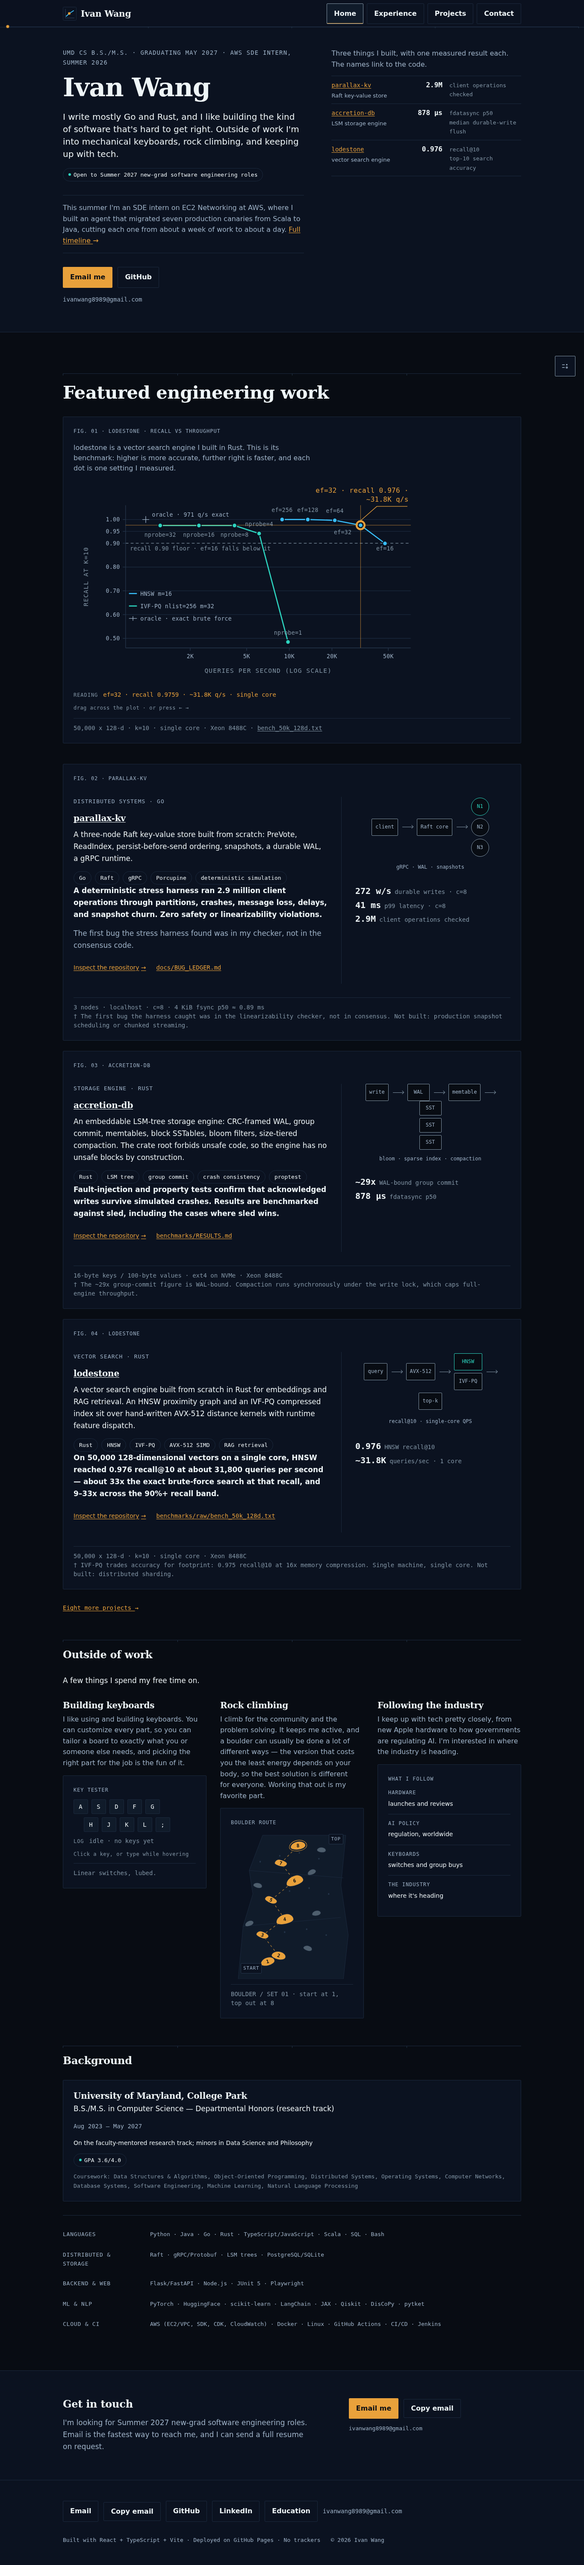
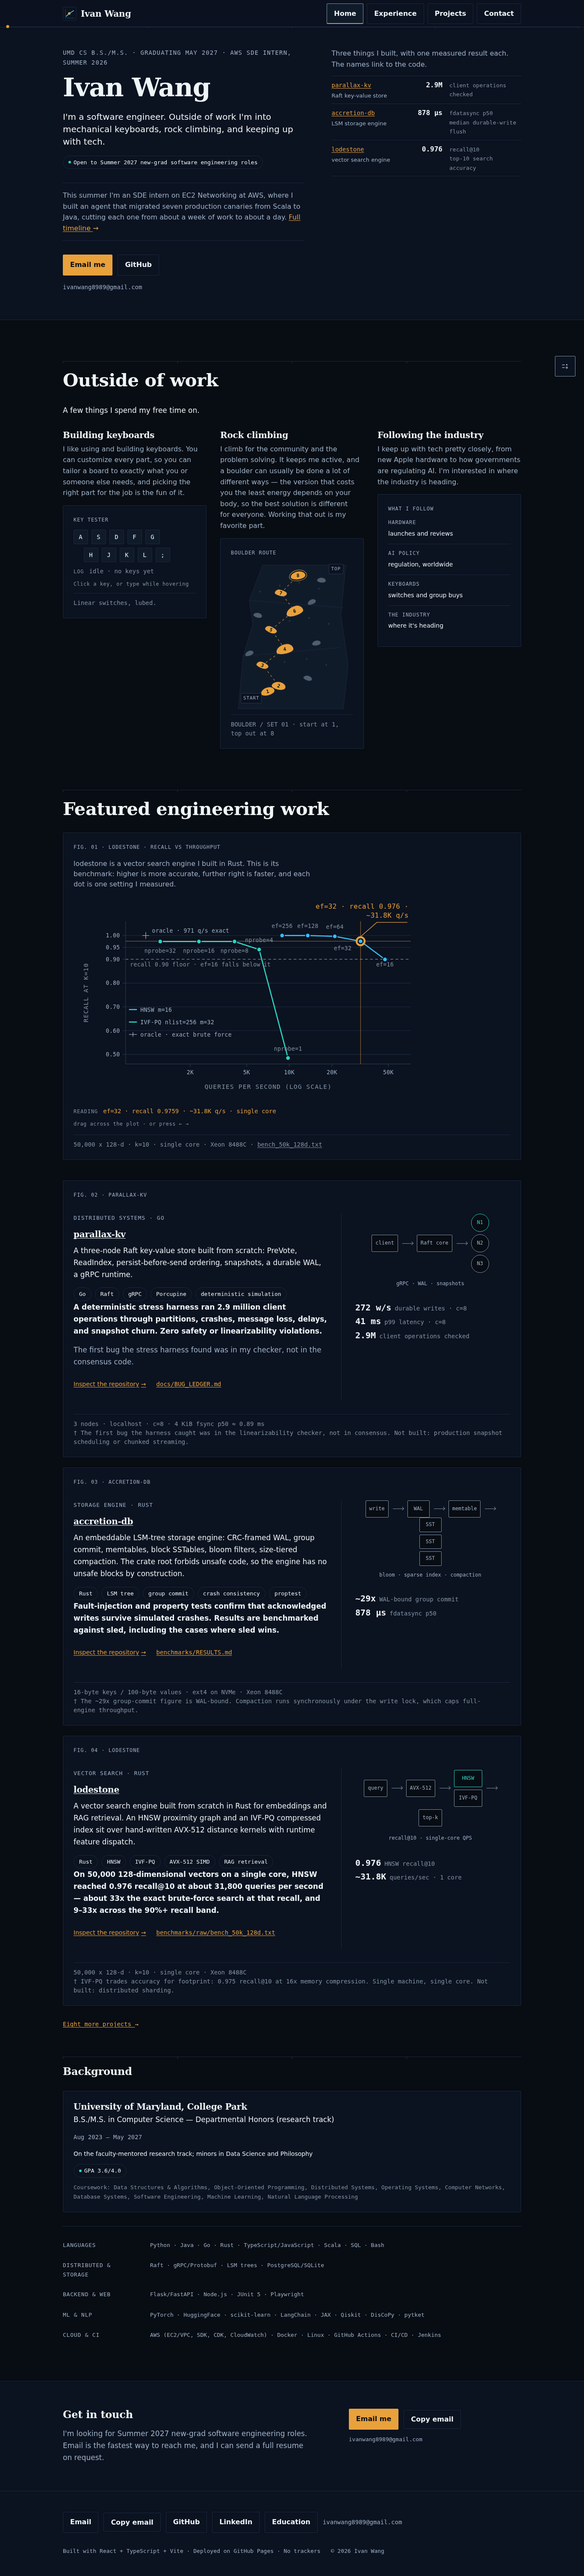
Home: hobbies lead, no stack pigeonhole in the bio or meta

diff --git a/src/pages/home/main.tsx b/src/pages/home/main.tsx
@@ -79,29 +79,13 @@ function Home() {
           </div>
         </section>
 
-        <Section id="systems" title="Featured engineering work" rank={1}>
-          {/* The section opens with ONE figure at the full container measure —
-              the rail that used to sit beside it now lives in the hero, above
-              the fold, where the numbers are the first screen's evidence. */}
-          <div className="systems-sweep">
-            <Sweep />
-          </div>
-          <div className="system-list">
-            {featuredSystems.map((project, i) => (
-              <SystemFeature key={project.id} project={project} index={i} />
-            ))}
-          </div>
-          {/* An exit that points at what the reader has NOT seen. */}
-          <p className="section-exit">
-            <a className="mono" href="/projects/#selected">
-              Eight more projects <span className="arrow" aria-hidden="true">→</span>
-            </a>
-          </p>
-        </Section>
-
-        {/* The hobbies, each drawn as its own small figure: the key tester you
-            can type on, the boulder route, the feed. */}
-        <Section id="off-hours" title={hobbies.title} rank={2}>
+        {/* Personality first, by owner call (2026-07-31): the hobbies lead the
+            page, each drawn as its own small figure — the key tester you can
+            type on, the boulder route, the feed. The engineering evidence
+            follows directly, and the hero's readout rail already puts three
+            measured results above the fold, so a screener never has to scroll
+            past the personality to find proof. */}
+        <Section id="off-hours" title={hobbies.title} rank={1}>
           <p className="hobby-intro">{hobbies.intro}</p>
           <div className="hobby-grid">
             <div className="hobby-cell">
@@ -132,6 +116,26 @@ function Home() {
               </figure>
             </div>
           </div>
+        </Section>
+
+        <Section id="systems" title="Featured engineering work" rank={1}>
+          {/* The section opens with ONE figure at the full container measure —
+              the rail that used to sit beside it now lives in the hero, above
+              the fold, where the numbers are the first screen's evidence. */}
+          <div className="systems-sweep">
+            <Sweep />
+          </div>
+          <div className="system-list">
+            {featuredSystems.map((project, i) => (
+              <SystemFeature key={project.id} project={project} index={i} />
+            ))}
+          </div>
+          {/* An exit that points at what the reader has NOT seen. */}
+          <p className="section-exit">
+            <a className="mono" href="/projects/#selected">
+              Eight more projects <span className="arrow" aria-hidden="true">→</span>
+            </a>
+          </p>
         </Section>
 
         {/* Education and skills are one thing — where he studied and what he

diff --git a/index.html b/index.html
@@ -6,7 +6,7 @@
     <title>Ivan Wang — Software Engineer · UMD CS · AWS SDE Intern</title>
     <meta
       name="description"
-      content="Software engineer building across the stack — backend, systems, and ML/NLP. CS B.S./M.S. (Departmental Honors) at the University of Maryland, SDE intern at AWS for Summer 2026, seeking new-grad SWE roles for Summer 2027."
+      content="Software engineer. CS B.S./M.S. (Departmental Honors) at the University of Maryland, SDE intern at AWS for Summer 2026, seeking new-grad SWE roles for Summer 2027."
     />
     <meta name="color-scheme" content="dark" />
     <meta name="theme-color" content="#0B1220" />
@@ -25,7 +25,7 @@
     />
     <meta
       property="og:description"
-      content="Software engineer building across the stack — backend, systems, and ML/NLP. CS B.S./M.S. (Departmental Honors) at the University of Maryland, SDE intern at AWS for Summer 2026, seeking new-grad SWE roles for Summer 2027."
+      content="Software engineer. CS B.S./M.S. (Departmental Honors) at the University of Maryland, SDE intern at AWS for Summer 2026, seeking new-grad SWE roles for Summer 2027."
     />
     <!-- og.png is a 1200×630 plate: name, provenance line, and a miniature of
          the measured recall/throughput figure. Built from the live tokens.
@@ -79,7 +79,7 @@
     <div id="root"></div>
     <noscript>
       <p>
-        Ivan Wang — software engineer building across backend, systems, and ML/NLP. JavaScript is off — the
+        Ivan Wang — software engineer. JavaScript is off — the
         static page above still carries everything; quick links:
         <a href="/experience/">Experience</a> · <a href="/projects/">Projects</a> ·
         <a href="/#contact">Contact</a> ·

diff --git a/src/content.ts b/src/content.ts
@@ -39,8 +39,11 @@ export const hero = {
   // lowercase literals "mechanical keyboards" and "rock climbing" on "/", and
   // they exist nowhere else in the rendered DOM (the hobby headings are
   // capitalized). Edit the first sentence only.
+  // NO language or specialty in the first sentence — naming a stack narrows the
+  // roles a screener will consider him for (owner call, 2026-07-31). The site
+  // shows the range; it doesn't announce a lane.
   subhead:
-    "I write mostly Go and Rust, and I like building the kind of software that's hard to get right. Outside of work I'm into mechanical keyboards, rock climbing, and keeping up with tech.",
+    "I'm a software engineer. Outside of work I'm into mechanical keyboards, rock climbing, and keeping up with tech.",
   availability: "Open to Summer 2027 new-grad software engineering roles",
   readoutLead: "Three things I built, with one measured result each. The names link to the code.",
   readout: [
